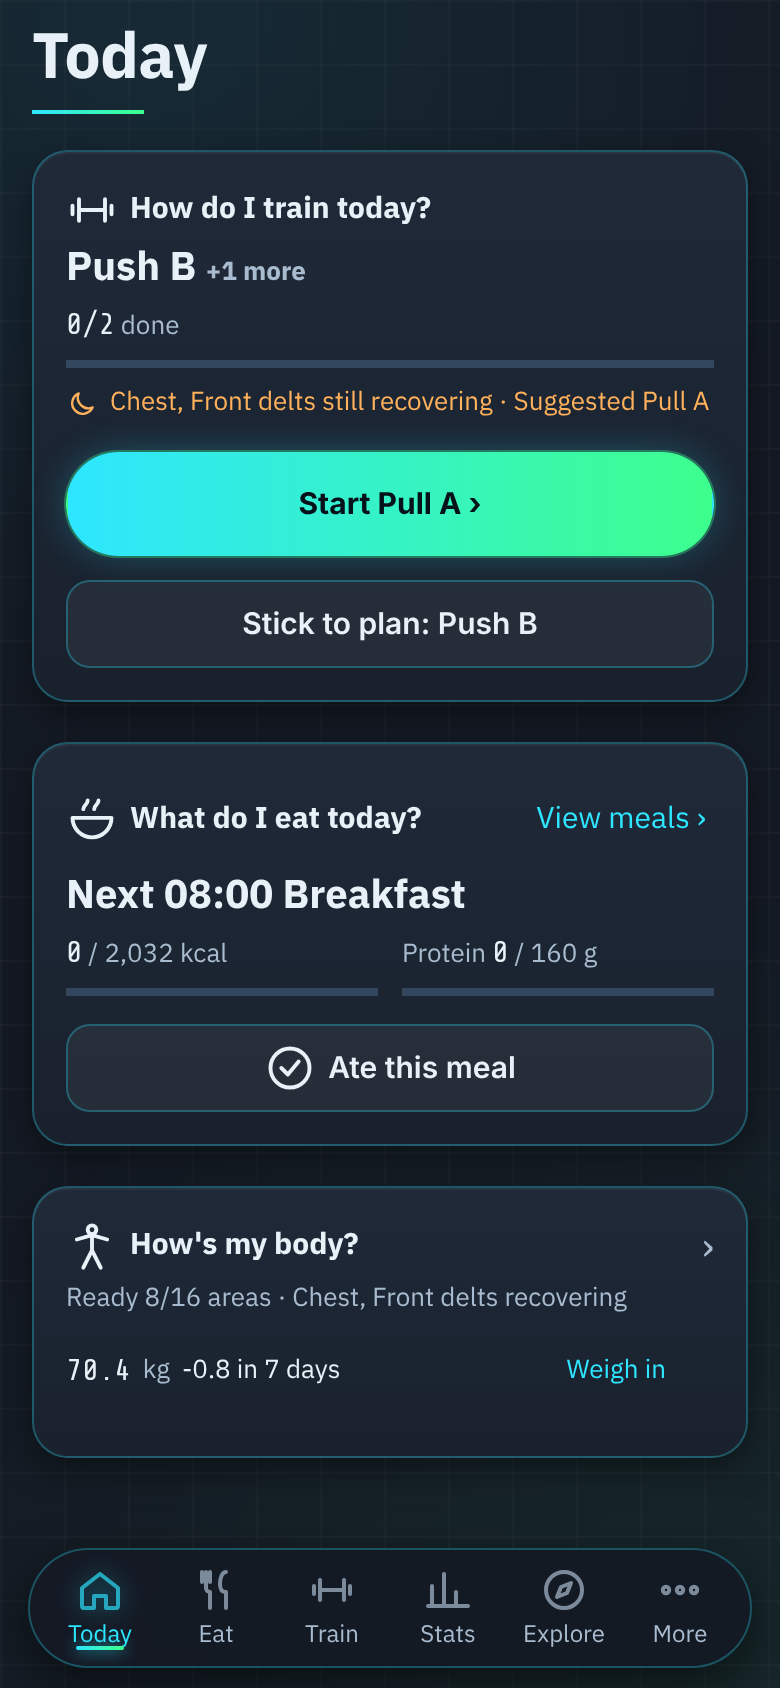
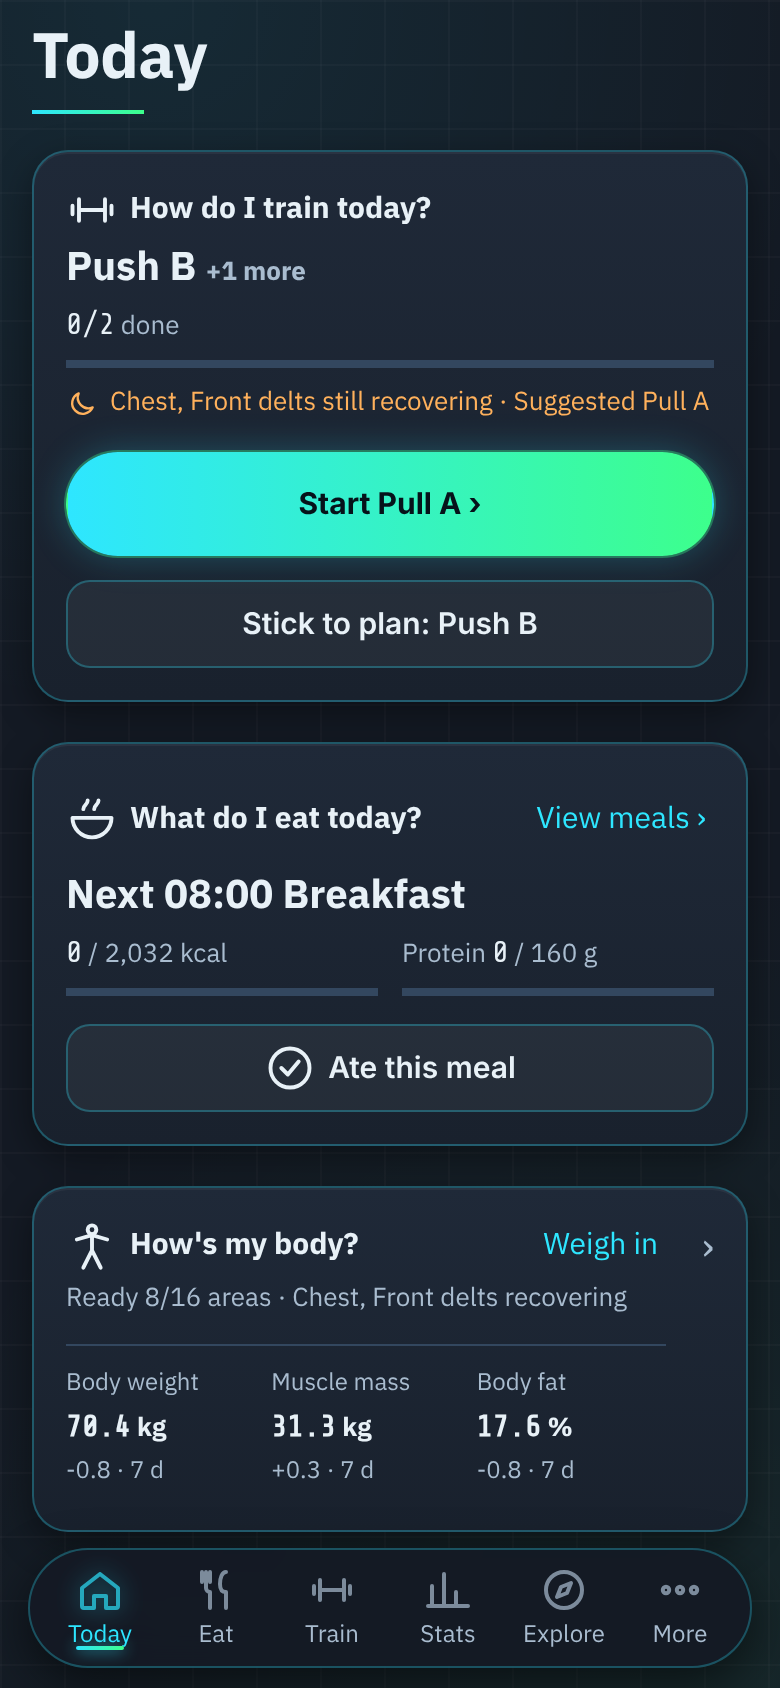
Today: body card shows weight, muscle mass and body fat (#107)
* docs: Today critique snapshot + redesign intent

Claude-Session: https://claude.ai/code/session_01TA1QFnqgBxBRFsiXemJ9Lg

* chore: ignore impeccable live-server state

Claude-Session: https://claude.ai/code/session_01TA1QFnqgBxBRFsiXemJ9Lg

* Today: plan first, one start button, inline meal tick, folded recovery

Claude-Session: https://claude.ai/code/session_01TA1QFnqgBxBRFsiXemJ9Lg

* docs: merge PR automatically once npm test passes

Claude-Session: https://claude.ai/code/session_01TA1QFnqgBxBRFsiXemJ9Lg

* docs: no OK wait between steps

Claude-Session: https://claude.ai/code/session_01TA1QFnqgBxBRFsiXemJ9Lg

* Today: recovery-aware start, undo on meal tick, progress bars, direct start

Claude-Session: https://claude.ai/code/session_01TA1QFnqgBxBRFsiXemJ9Lg

* Today: rested program leads, rest-day exit, inline meal cancel, over-target bar

Claude-Session: https://claude.ai/code/session_01TA1QFnqgBxBRFsiXemJ9Lg

* Today: body weight + 7-day change + weigh-in in the body card

Claude-Session: https://claude.ai/code/session_01TA1QFnqgBxBRFsiXemJ9Lg

* Today: body card shows weight, muscle mass and body fat

Claude-Session: https://claude.ai/code/session_01TA1QFnqgBxBRFsiXemJ9Lg

---------

diff --git a/public/js/home.js b/public/js/home.js
@@ -20,9 +20,11 @@ function renderHome(){const box=document.getElementById("v-home");if(!box)return
   const gymBtn=restDay?"":pk?`${t("เริ่ม")} ${esc(PROGS[pk].name)}`:t("วางแผนวันนี้");
   const foodAns=nx?`${t("มื้อถัดไป")} ${esc(t(nx.time))} ${esc(t(nx.name))}`:t("ครบทุกมื้อแล้ว");
   // body weight: latest, change vs ~a week ago, one-tap weigh-in when today has none
-  const BL=(typeof BODY!=="undefined"?BODY:[]).filter(x=>x.kg>0).sort((a,b)=>a.d.localeCompare(b.d)),bwL=BL.slice(-1)[0];
-  const wkAgo=bwL&&BL.filter(x=>(ds2d(bwL.d)-ds2d(x.d))/864e5>=6).slice(-1)[0],dlt=wkAgo?Math.round((bwL.kg-wkAgo.kg)*10)/10:null;
-  const bwRow=`<span class="hq-bw">${bwL?`<span class="hq-num">${bwL.kg}</span> kg${dlt!==null?` <i class="${dlt<=0?"dn":"up"}">${dlt>0?"+":""}${dlt} ${t("ใน 7 วัน")}</i>`:""}`:`<i>${t("ยังไม่ได้บันทึกน้ำหนัก")}</i>`}${!bwL||bwL.d!==TODAY?`<button class="hq-l" data-weigh>${t("ชั่งวันนี้")}</button>`:""}<input type="number" readonly inputmode="none" data-pad="bw" value="${bwL?bwL.kg:""}" aria-label="${t("น้ำหนักตัว")}" hidden></span>`;
+  const BL=(typeof BODY!=="undefined"?BODY:[]).slice().sort((x,y)=>x.d.localeCompare(y.d)),bwL=BL.filter(x=>x.kg>0).slice(-1)[0];
+  const stat=(k,lbl,u)=>{const L=BL.filter(x=>x[k]>0),z=L.slice(-1)[0];if(!z)return `<span class="hq-st"><small>${t(lbl)}</small><b>–</b></span>`;
+    const w=L.filter(x=>(ds2d(z.d)-ds2d(x.d))/864e5>=6).slice(-1)[0],dl=w?Math.round((z[k]-w[k])*10)/10:null;
+    return `<span class="hq-st"><small>${t(lbl)}</small><b><span class="hq-num">${z[k]}</span> ${u}</b>${dl!==null?`<i>${dl>0?"+":""}${dl} · 7 ${t("วัน")}</i>`:""}</span>`};
+  const bwRow=`<span class="hq-bw">${stat("kg","น้ำหนักตัว","kg")}${stat("mm","มวลกล้ามเนื้อ","kg")}${stat("fat","ไขมัน","%")}</span><input type="number" readonly inputmode="none" data-pad="bw" value="${bwL?bwL.kg:""}" aria-label="${t("น้ำหนักตัว")}" hidden>`;
   const recSum=!hasHist?t("ยังไม่มีประวัติ — เล่นครั้งแรกแล้วจะเห็นว่ากล้ามส่วนไหนพร้อม")
     :`${t("พร้อม")} ${ready.length}/${REC_ORDER.length} ${t("ส่วน")}`+(fresh.length?` · ${fresh.slice(0,2).map(m=>t(MUS_NAME[m])).join(", ")} ${t("กำลังฟื้น")}`:"");
   {const rw=document.getElementById("rec-wrap");if(rw&&box.contains(rw))document.body.appendChild(rw)}   // park it: innerHTML below would destroy it
@@ -37,7 +39,7 @@ function renderHome(){const box=document.getElementById("v-home");if(!box)return
       <b class="hq-a">${foodAns}</b><span class="hq-prog"><small class="hq-s"><span class="hq-num">${k.toLocaleString()}</span> / ${K_GOAL.toLocaleString()} kcal${bar(k,K_GOAL)}</small><small class="hq-s">${t("โปรตีน")} <span class="hq-num">${p}</span> / ${P_TARGET} g${bar(p,P_TARGET)}</small></span>
       ${lastTick&&(d.done||{})[lastTick.id]?`<span class="hq-undo">${licon("checkc")} ${esc(t(lastTick.name))} <button class="hq-l" data-untick="${esc(lastTick.id)}">${t("ยกเลิก")}</button></span>`:""}
       ${nx?`<button class="btn hq-tick" data-tick="${esc(nx.id)}">${licon("checkc")} ${t("กินมื้อนี้แล้ว")}</button>`:""}</section>
-    <details class="hq-card hq-body"${hasHist?"":" data-empty"}><summary><span class="hq-q">${licon("body")} ${t("ร่างกายฉันเป็นยังไง")}</span><small class="hq-s">${recSum}</small>${bwRow}</summary><div class="hq-rec"></div></details>`;
+    <details class="hq-card hq-body"${hasHist?"":" data-empty"}><summary><span class="hq-h"><span class="hq-q">${licon("body")} ${t("ร่างกายฉันเป็นยังไง")}</span>${!bwL||bwL.d!==TODAY?`<button class="hq-l hq-weigh" data-weigh>${t("ชั่งวันนี้")}</button>`:""}</span><small class="hq-s">${recSum}</small>${bwRow}</summary><div class="hq-rec"></div></details>`;
   box.querySelector("[data-weigh]")?.addEventListener("click",e=>{e.preventDefault();e.stopPropagation();PAD.bw=PAD.bw||{steps:[.1,.5,1,5],def:70,fix:1};openPad(box.querySelector('[data-pad="bw"]'))});
   box.querySelector('[data-pad="bw"]')?.addEventListener("change",e=>{const kg=Math.round(+e.target.value*10)/10;if(!(kg>0))return;BODY=BODY.filter(x=>x.d!==TODAY);BODY.push({d:TODAY,kg});save("body",BODY);renderHome()});
   box.querySelector(".hq-body[data-empty] summary")?.addEventListener("click",e=>e.preventDefault());

diff --git a/public/index.html b/public/index.html
@@ -8,11 +8,11 @@
 <meta name="apple-mobile-web-app-status-bar-style" content="black-translucent">
 <meta name="apple-mobile-web-app-title" content="WeightGram">
 <link rel="manifest" href="/manifest.webmanifest">
-<link rel="apple-touch-icon" href="/apple-touch-icon.png?v=138526">
+<link rel="apple-touch-icon" href="/apple-touch-icon.png?v=138527">
 <title>WeightGram</title>
 <link rel="stylesheet" href="https://fonts.googleapis.com/css2?family=IBM+Plex+Sans+Thai:wght@400;500;700&family=IBM+Plex+Mono:wght@400;500&family=Share+Tech+Mono&display=swap">
 <style>:root{padding-top:env(safe-area-inset-top,0px);padding-bottom:env(safe-area-inset-bottom,0px)}*{-webkit-tap-highlight-color:transparent}body{margin:0;font-size:var(--t-sm);font-family:system-ui,sans-serif}img{max-width:100%}[hidden]{display:none!important}</style>
-<link rel="stylesheet" href="/css/app.css?v=138526">
+<link rel="stylesheet" href="/css/app.css?v=138527">
 </head><body>
 
 <div class="wrap">
@@ -276,37 +276,37 @@
   </div>
 </div>
 
-<script src="/js/core.js?v=138526"></script>
-<script src="/js/food.js?v=138526"></script>
-<script src="/js/locations.js?v=138526"></script>
-<script src="/js/programs.js?v=138526"></script>
-<script src="/js/run.js?v=138526"></script>
-<script src="/js/workout.js?v=138526"></script>
-<script src="/js/exercise-edit.js?v=138526"></script>
-<script src="/js/edit-tx.js?v=138526"></script>
-<script src="/js/exercise-library.js?v=138526"></script>
-<script src="/js/program-manager.js?v=138526"></script>
-<script src="/js/hero.js?v=138526"></script>
-<script src="/js/rest-timer.js?v=138526"></script>
-<script src="/js/auth.js?v=138526"></script>
-<script src="/js/push.js?v=138526"></script>
-<script src="/js/data-io.js?v=138526"></script>
-<script src="/js/sync.js?v=138526"></script>
-<script src="/js/muscle-map.js?v=138526"></script>
-<script src="/js/progress.js?v=138526"></script>
-<script src="/js/history-chart.js?v=138526"></script>
-<script src="/js/stats-extra.js?v=138526"></script>
-<script src="/js/meal-plan.js?v=138526"></script>
-<script src="/js/undo.js?v=138526"></script>
-<script src="/js/home.js?v=138526"></script>
-<script src="/js/share.js?v=138526"></script>
-<script src="/js/explore.js?v=138526"></script>
-<script src="/js/onboarding.js?v=138526"></script>
-<script src="/js/account.js?v=138526"></script>
-<script src="/js/share-card.js?v=138526"></script>
-<script src="/js/number-pad.js?v=138526"></script>
-<script src="/js/refresh.js?v=138526"></script>
-<script src="/js/app.js?v=138526"></script>
+<script src="/js/core.js?v=138527"></script>
+<script src="/js/food.js?v=138527"></script>
+<script src="/js/locations.js?v=138527"></script>
+<script src="/js/programs.js?v=138527"></script>
+<script src="/js/run.js?v=138527"></script>
+<script src="/js/workout.js?v=138527"></script>
+<script src="/js/exercise-edit.js?v=138527"></script>
+<script src="/js/edit-tx.js?v=138527"></script>
+<script src="/js/exercise-library.js?v=138527"></script>
+<script src="/js/program-manager.js?v=138527"></script>
+<script src="/js/hero.js?v=138527"></script>
+<script src="/js/rest-timer.js?v=138527"></script>
+<script src="/js/auth.js?v=138527"></script>
+<script src="/js/push.js?v=138527"></script>
+<script src="/js/data-io.js?v=138527"></script>
+<script src="/js/sync.js?v=138527"></script>
+<script src="/js/muscle-map.js?v=138527"></script>
+<script src="/js/progress.js?v=138527"></script>
+<script src="/js/history-chart.js?v=138527"></script>
+<script src="/js/stats-extra.js?v=138527"></script>
+<script src="/js/meal-plan.js?v=138527"></script>
+<script src="/js/undo.js?v=138527"></script>
+<script src="/js/home.js?v=138527"></script>
+<script src="/js/share.js?v=138527"></script>
+<script src="/js/explore.js?v=138527"></script>
+<script src="/js/onboarding.js?v=138527"></script>
+<script src="/js/account.js?v=138527"></script>
+<script src="/js/share-card.js?v=138527"></script>
+<script src="/js/number-pad.js?v=138527"></script>
+<script src="/js/refresh.js?v=138527"></script>
+<script src="/js/app.js?v=138527"></script>
 
 <div id="rec-wrap" class="stack" style="gap:10px" hidden><div class="rcf-head"><div class="sec-t" data-i="การฟื้นตัวของกล้ามเนื้อ">การฟื้นตัวของกล้ามเนื้อ</div><button class="btn sm" id="rec-cfg">⚙ <span data-i="ตั้งเวลาฟื้นตัว">ตั้งเวลาฟื้นตัว</span></button></div><div class="card" id="rec-body"></div></div>
 </body></html>

diff --git a/public/css/app.css b/public/css/app.css
@@ -1167,6 +1167,7 @@ input:not([type=checkbox]):not([type=radio]),select{min-height:44px}
 .hq-bar i.over{background:var(--warn)}
 .hq-undo{display:flex;align-items:center;gap:6px;margin-top:8px;color:var(--up);font-size:var(--t-meta)}
 .hq-undo svg{width:16px;height:16px}.hq-undo .hq-l{margin-left:auto;color:var(--muted)}
-.hq-bw{display:flex;align-items:center;gap:6px;color:var(--muted);font-size:var(--t-meta)}
-.hq-bw i{font-style:normal}.hq-bw i.dn,.hq-bw i.up{color:var(--fg)}
-.hq-bw .hq-l{margin-left:auto;margin-right:-4px}
+.hq-bw{display:grid;grid-template-columns:repeat(3,minmax(0,1fr));gap:8px;margin-top:8px;padding-top:10px;border-top:1px solid var(--line)}
+.hq-st{display:grid;gap:2px;min-width:0}.hq-st small{color:var(--muted);font-size:var(--t-label)}.hq-st b{font-weight:600;font-size:var(--t-meta);white-space:nowrap}
+.hq-st i{font-style:normal;color:var(--muted);font-size:var(--t-label)}
+.hq-weigh{min-height:32px;margin:-6px 0}

diff --git a/docs/work/2026-11-21-today-redesign/plan.md b/docs/work/2026-11-21-today-redesign/plan.md
@@ -19,3 +19,4 @@
 
 ## Body weight on Today
 - body card: latest kg (mono) + change vs ~7 days ago (neutral colour, no goal assumed) + "ชั่งวันนี้" when today not logged → number pad → BODY
+- show all three body values (kg, muscle mass, fat %) each with 7-day change; "ชั่งวันนี้" in the card header
